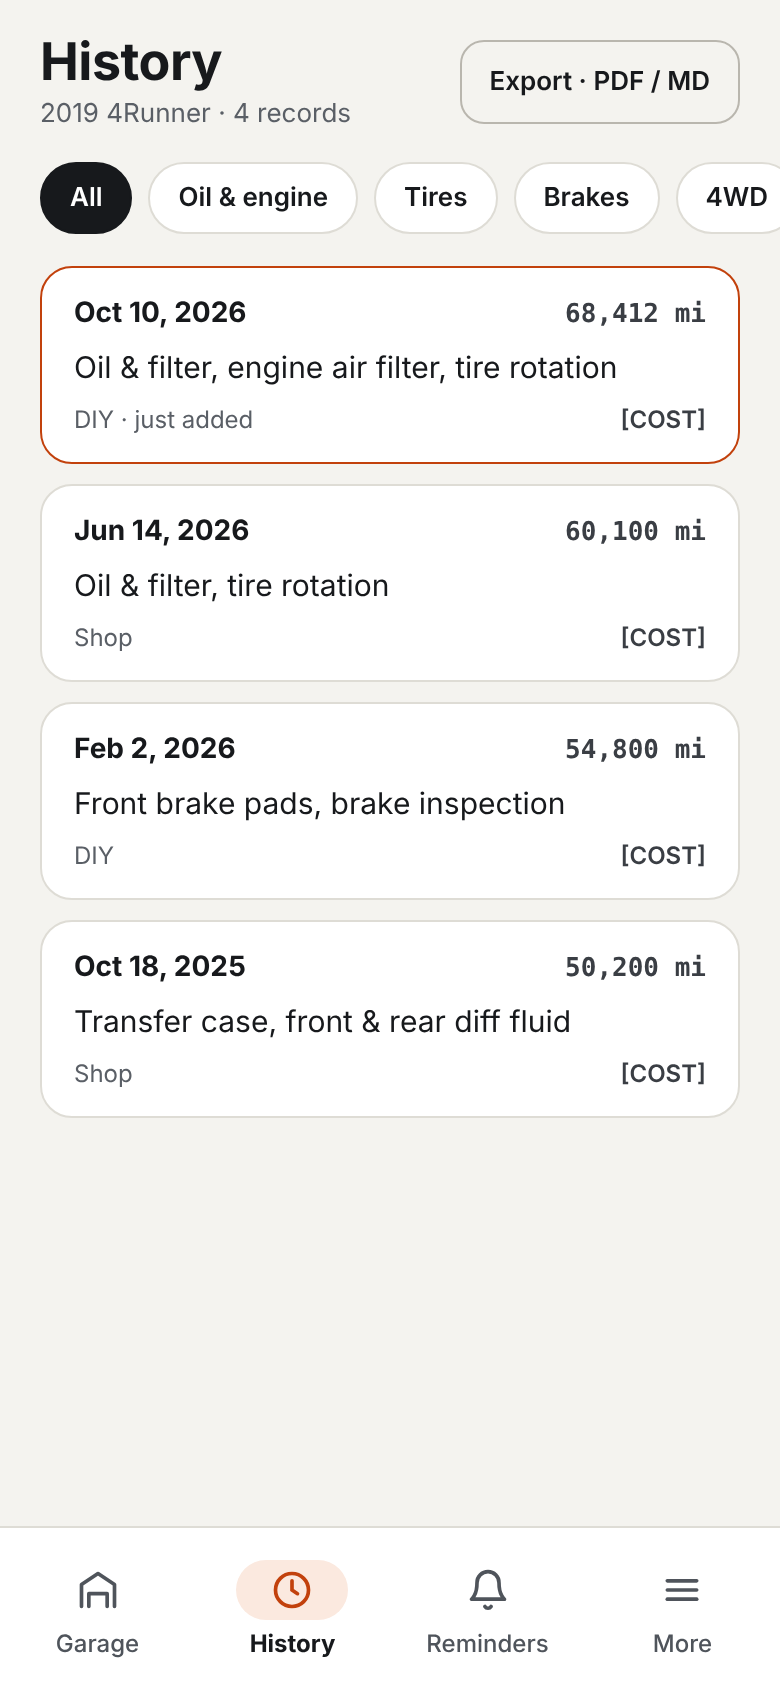
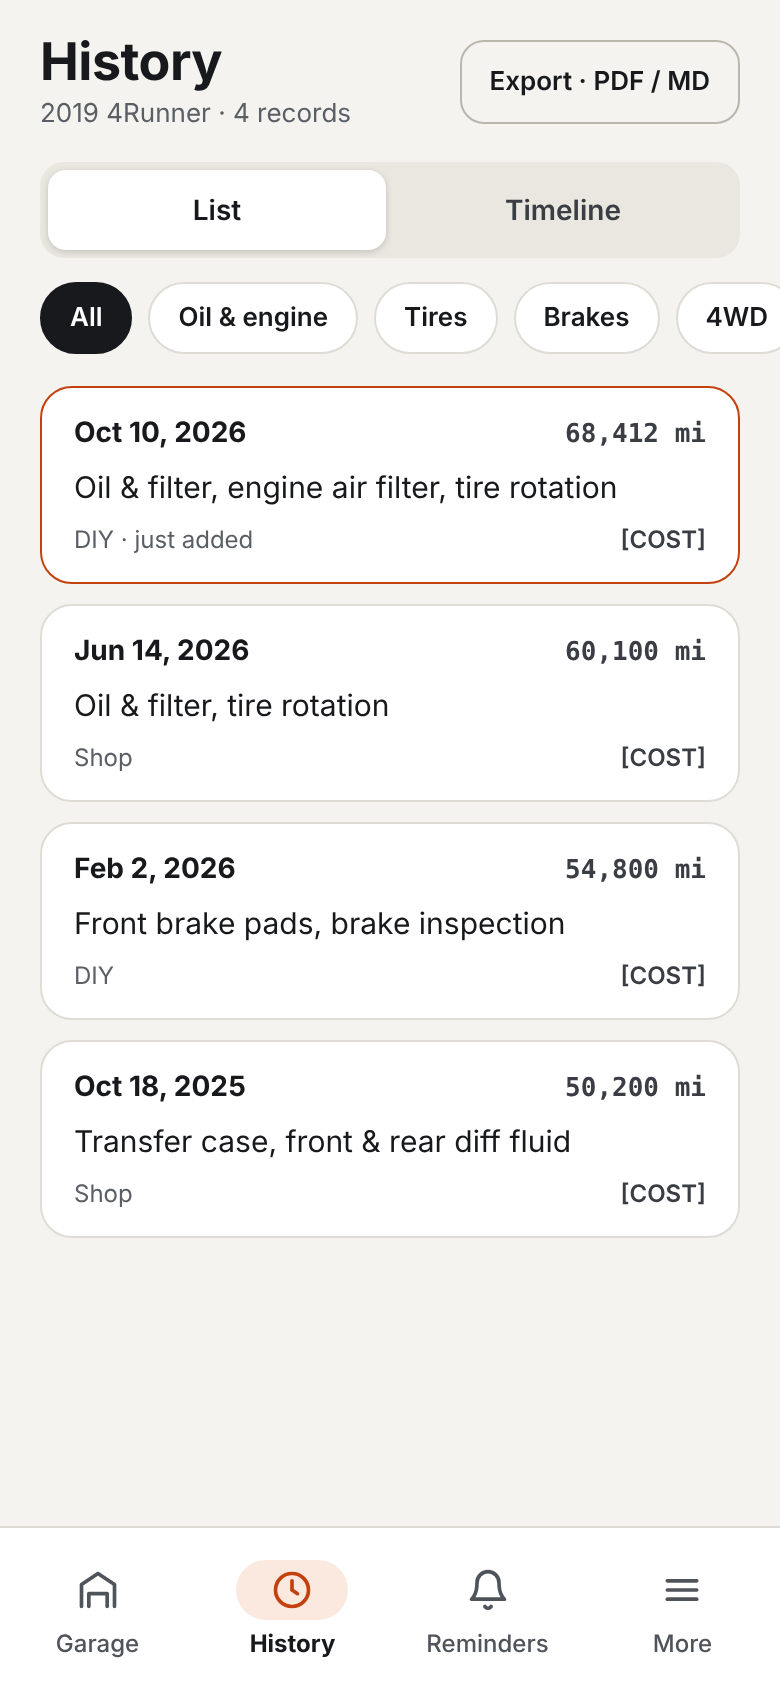
docs(design): add the History timeline view (#400)
A new board, 6e · History — timeline view, and a List / Timeline switch on
the History board that leads to it.

diff --git a/design/source/Timeline.dc.html b/design/source/Timeline.dc.html
@@ -1,0 +1,202 @@
+<!doctype html>
+<html lang="en">
+<head>
+<meta charset="utf-8">
+<title>Service timeline</title>
+<script src="./support.js"></script>
+</head>
+<body>
+<x-dc>
+<helmet>
+<link rel="stylesheet" href="https://fonts.googleapis.com/css2?family=IBM+Plex+Mono:wght@500;600&amp;family=IBM+Plex+Sans:wght@400;500;600;700&amp;display=swap">
+<style>
+body{margin:0}
+a{color:#C2410C}a:hover{color:#9A3412}
+</style>
+</helmet>
+<div style="width: 390px; min-height: 1560px; box-sizing: border-box; background: #F4F3EF; color: #17191C; font-family: 'IBM Plex Sans', system-ui, sans-serif; display: flex; flex-direction: column">
+  <div style="display: flex; align-items: center; justify-content: space-between; padding: 16px 20px 4px 20px">
+    <div style="display: flex; flex-direction: column; gap: 2px">
+      <div style="font-size: 26px; font-weight: 700; letter-spacing: -0.01em">History</div>
+      <div style="font-size: 13px; color: #5A5F66">{{subtitle}}</div>
+    </div>
+    <a href="ExportSheet.dc.html" style="height: 40px; padding: 0 14px; border-radius: 12px; border: 1.5px solid #B9B6AE; display: flex; align-items: center; font-size: 13px; font-weight: 600; color: #17191C; text-decoration: none">Export</a>
+  </div>
+
+  <div style="padding: 12px 20px 0 20px">
+    <div role="tablist" aria-label="History view" style="display: grid; grid-template-columns: repeat(2, minmax(0, 1fr)); gap: 4px; padding: 4px; border-radius: 12px; background: #E9E7E0">
+      <a href="History.dc.html" role="tab" aria-selected="false" style="height: 40px; border-radius: 9px; display: flex; align-items: center; justify-content: center; font-size: 14px; font-weight: 600; color: #3A3E44; text-decoration: none">List</a>
+      <a href="Timeline.dc.html" role="tab" aria-selected="true" style="height: 40px; border-radius: 9px; display: flex; align-items: center; justify-content: center; font-size: 14px; font-weight: 600; color: #17191C; text-decoration: none; background: #FFFFFF; box-shadow: 0 1px 3px rgba(23,25,28,0.18)">Timeline</a>
+    </div>
+  </div>
+
+  <div style="display: flex; gap: 8px; padding: 12px 20px 4px 20px">
+    <sc-for list="{{filters}}" as="f" hint-placeholder-count="3">
+      <button onClick="{{f.pick}}" aria-pressed="{{f.active}}" style="height: 36px; padding: 0 14px; border-radius: 999px; font-family: inherit; font-size: 13px; font-weight: 600; border: 1.5px solid {{f.border}}; background: {{f.bg}}; color: {{f.fg}}">{{f.label}}</button>
+    </sc-for>
+  </div>
+
+  <div style="position: relative; padding: 12px 20px 24px 20px">
+    <div aria-hidden="true" style="position: absolute; left: 39px; top: 24px; bottom: 24px; width: 2px; background: #DEDCD5"></div>
+
+    <sc-for list="{{upcoming}}" as="u" hint-placeholder-count="2">
+      <div style="position: relative; display: flex; gap: 14px; padding-bottom: 12px">
+        <div style="width: 40px; flex-shrink: 0; display: flex; justify-content: center; padding-top: 14px">
+          <div style="width: 16px; height: 16px; border-radius: 8px; box-sizing: border-box; border: 2px dashed #C2410C; background: #F4F3EF"></div>
+        </div>
+        <div style="flex: 1; min-width: 0; border: 1.5px dashed #C2410C; border-radius: 14px; padding: 10px 14px; display: flex; flex-direction: column; gap: 2px">
+          <span style="font-size: 12px; font-weight: 700; letter-spacing: 0.04em; color: #9A3412">COMING UP · {{u.vehicle}}</span>
+          <span style="font-size: 15px; font-weight: 600">{{u.name}}</span>
+          <span style="font-size: 13px; color: #3A3E44">{{u.when}}</span>
+        </div>
+      </div>
+    </sc-for>
+
+    <sc-for list="{{items}}" as="e" hint-placeholder-count="6">
+      <sc-if value="{{e.isYear}}" hint-placeholder-val="{{ false }}">
+        <div style="position: relative; display: flex; gap: 14px; padding: 8px 0 10px 0">
+          <div style="width: 40px; flex-shrink: 0; display: flex; justify-content: center">
+            <div style="padding: 2px 6px; border-radius: 6px; background: #17191C; color: #FFFFFF; font-family: 'IBM Plex Mono', ui-monospace, monospace; font-size: 12px; font-weight: 600">{{e.year}}</div>
+          </div>
+        </div>
+      </sc-if>
+
+      <sc-if value="{{e.isGap}}" hint-placeholder-val="{{ false }}">
+        <div style="position: relative; display: flex; gap: 14px; padding: 0 0 12px 0">
+          <div style="width: 40px; flex-shrink: 0"></div>
+          <div style="font-size: 12px; color: #5A5F66; font-style: italic">{{e.gap}}</div>
+        </div>
+      </sc-if>
+
+      <sc-if value="{{e.isEntry}}" hint-placeholder-val="{{ true }}">
+        <div style="position: relative; display: flex; gap: 14px; padding-bottom: 12px">
+          <div style="width: 40px; flex-shrink: 0; display: flex; justify-content: center; padding-top: 16px">
+            <div style="width: 16px; height: 16px; border-radius: 8px; box-sizing: border-box; border: 3px solid {{e.ring}}; background: #FFFFFF"></div>
+          </div>
+          <a href="RecordDetail.dc.html" style="flex: 1; min-width: 0; background: #FFFFFF; border: 1px solid #DEDCD5; border-radius: 16px; padding: 12px 14px; display: flex; flex-direction: column; gap: 8px; color: #17191C; text-decoration: none">
+            <div style="display: flex; justify-content: space-between; align-items: baseline; gap: 8px">
+              <span style="font-size: 14px; font-weight: 700">{{e.date}}</span>
+              <span style="font-family: 'IBM Plex Mono', ui-monospace, monospace; font-size: 13px; font-weight: 600; color: #3A3E44">{{e.miles}}</span>
+            </div>
+            <div style="display: flex; gap: 6px; flex-wrap: wrap">
+              <sc-for list="{{e.work}}" as="w" hint-placeholder-count="2">
+                <span style="display: inline-flex; align-items: center; gap: 6px; padding: 4px 8px; border-radius: 8px; background: #F4F3EF; font-size: 13px">
+                  <span aria-hidden="true" style="width: 8px; height: 8px; border-radius: 2px; background: {{w.color}}"></span>{{w.label}}
+                </span>
+              </sc-for>
+            </div>
+            <div style="display: flex; justify-content: space-between; font-size: 12px; color: #5A5F66">
+              <span style="font-weight: 600; color: {{e.vehicleColor}}">{{e.vehicle}}</span>
+              <span>{{e.who}}</span>
+            </div>
+          </a>
+        </div>
+      </sc-if>
+    </sc-for>
+
+    <div style="position: relative; display: flex; gap: 14px">
+      <div style="width: 40px; flex-shrink: 0; display: flex; justify-content: center">
+        <div style="width: 10px; height: 10px; border-radius: 5px; background: #B9B6AE"></div>
+      </div>
+      <div style="font-size: 12px; color: #5A5F66">{{startNote}}</div>
+    </div>
+  </div>
+
+  <div style="padding: 0 20px 20px 20px; display: flex; gap: 12px; flex-wrap: wrap; font-size: 12px; color: #3A3E44">
+    <span style="display: inline-flex; align-items: center; gap: 6px"><span aria-hidden="true" style="width: 8px; height: 8px; border-radius: 2px; background: #C2410C"></span>Oil &amp; engine</span>
+    <span style="display: inline-flex; align-items: center; gap: 6px"><span aria-hidden="true" style="width: 8px; height: 8px; border-radius: 2px; background: #3A3E44"></span>Tires</span>
+    <span style="display: inline-flex; align-items: center; gap: 6px"><span aria-hidden="true" style="width: 8px; height: 8px; border-radius: 2px; background: #B42318"></span>Brakes</span>
+    <span style="display: inline-flex; align-items: center; gap: 6px"><span aria-hidden="true" style="width: 8px; height: 8px; border-radius: 2px; background: #0F766E"></span>Fluids &amp; 4WD</span>
+    <span style="display: inline-flex; align-items: center; gap: 6px"><span aria-hidden="true" style="width: 8px; height: 8px; border-radius: 2px; background: #B9B6AE"></span>Cabin &amp; other</span>
+  </div>
+
+  <div style="flex: 1"></div>
+
+  <nav style="height: 80px; background: #FFFFFF; border-top: 1px solid #DEDCD5; display: grid; grid-template-columns: repeat(4, minmax(0, 1fr))">
+    <a href="GarageMulti.dc.html" style="display: flex; flex-direction: column; align-items: center; justify-content: center; gap: 4px; color: #4F545B; text-decoration: none; font-size: 12px; font-weight: 500">
+      <div style="width: 56px; height: 30px; display: flex; align-items: center; justify-content: center"><svg width="22" height="22" viewBox="0 0 24 24" fill="none" stroke="currentColor" stroke-width="2" stroke-linecap="round" stroke-linejoin="round" aria-hidden="true"><path d="M3 21V9l9-6 9 6v12"></path><path d="M7 21v-7h10v7"></path></svg></div>
+      Garage
+    </a>
+    <a href="Timeline.dc.html" style="display: flex; flex-direction: column; align-items: center; justify-content: center; gap: 4px; color: #17191C; text-decoration: none; font-size: 12px; font-weight: 700">
+      <div style="width: 56px; height: 30px; border-radius: 15px; background: #FBE9DF; display: flex; align-items: center; justify-content: center; color: #C2410C"><svg width="22" height="22" viewBox="0 0 24 24" fill="none" stroke="currentColor" stroke-width="2" stroke-linecap="round" aria-hidden="true"><circle cx="12" cy="12" r="9"></circle><path d="M12 7v5l3 2"></path></svg></div>
+      History
+    </a>
+    <a href="Upcoming.dc.html" style="display: flex; flex-direction: column; align-items: center; justify-content: center; gap: 4px; color: #4F545B; text-decoration: none; font-size: 12px; font-weight: 500">
+      <div style="width: 56px; height: 30px; display: flex; align-items: center; justify-content: center"><svg width="22" height="22" viewBox="0 0 24 24" fill="none" stroke="currentColor" stroke-width="2" stroke-linecap="round" stroke-linejoin="round" aria-hidden="true"><path d="M18 8a6 6 0 0 0-12 0c0 7-3 9-3 9h18s-3-2-3-9"></path><path d="M13.7 21a2 2 0 0 1-3.4 0"></path></svg></div>
+      Reminders
+    </a>
+    <a href="Settings.dc.html" style="display: flex; flex-direction: column; align-items: center; justify-content: center; gap: 4px; color: #4F545B; text-decoration: none; font-size: 12px; font-weight: 500">
+      <div style="width: 56px; height: 30px; display: flex; align-items: center; justify-content: center"><svg width="22" height="22" viewBox="0 0 24 24" fill="none" stroke="currentColor" stroke-width="2" stroke-linecap="round" aria-hidden="true"><path d="M4 7h16"></path><path d="M4 12h16"></path><path d="M4 17h16"></path></svg></div>
+      Settings
+    </a>
+  </nav>
+</div>
+</x-dc>
+<script type="text/x-dc" data-dc-script data-props='{"$preview":{"width":390,"height":1560}}'>
+class Component extends DCLogic {
+constructor(props) {
+super(props);
+this.state = { v: 'all' };
+}
+renderVals() {
+var self = this, v = this.state.v;
+var CAT = { oil: '#C2410C', tires: '#3A3E44', brakes: '#B42318', fluids: '#0F766E', other: '#B9B6AE' };
+var VEH = {
+'4r': { name: '2019 4Runner', ring: '#C2410C', text: '#9A3412' },
+gti: { name: '2011 GTI', ring: '#17191C', text: '#3A3E44' }
+};
+// Sample data — not real records.
+var D = [
+{ v: '4r', d: '2026-10-10', mi: 68412, who: 'DIY', work: [['Oil & filter', 'oil'], ['Engine air filter', 'oil'], ['Tire rotation', 'tires']] },
+{ v: 'gti', d: '2026-08-22', mi: 110800, who: 'DIY', work: [['Tire rotation', 'tires'], ['Wiper blades', 'other']] },
+{ v: '4r', d: '2026-06-14', mi: 60100, who: 'Shop', work: [['Oil & filter', 'oil'], ['Tire rotation', 'tires']] },
+{ v: 'gti', d: '2026-03-09', mi: 105900, who: 'Shop', work: [['Rear brake pads', 'brakes'], ['Cabin air filter', 'other']] },
+{ v: '4r', d: '2026-02-02', mi: 54800, who: 'DIY', work: [['Front brake pads', 'brakes'], ['Brake inspection', 'brakes']] },
+{ v: 'gti', d: '2025-11-15', mi: 102940, who: 'DIY', work: [['Oil & filter (VW 502 00)', 'oil'], ['Spark plugs', 'oil']] },
+{ v: '4r', d: '2025-10-18', mi: 50200, who: 'Shop', work: [['Transfer case fluid', 'fluids'], ['Front & rear diff fluid', 'fluids']] }
+];
+var MON = ['Jan', 'Feb', 'Mar', 'Apr', 'May', 'Jun', 'Jul', 'Aug', 'Sep', 'Oct', 'Nov', 'Dec'];
+var parse = function (s) { var p = s.split('-'); return { y: +p[0], m: +p[1], d: +p[2] }; };
+var fmtDate = function (s) { var p = parse(s); return MON[p.m - 1] + ' ' + p.d + ', ' + p.y; };
+var months = function (a, b) { var x = parse(a), y = parse(b); return (x.y - y.y) * 12 + (x.m - y.m) - (x.d < y.d ? 1 : 0); };
+var rows = D.filter(function (d) { return v === 'all' || d.v === v; });
+var items = [];
+var lastYear = null;
+rows.forEach(function (r, i) {
+var yr = r.d.slice(0, 4);
+if (yr !== lastYear) { items.push({ isYear: true, isGap: false, isEntry: false, year: yr }); lastYear = yr; }
+var veh = VEH[r.v];
+items.push({
+isYear: false, isGap: false, isEntry: true,
+date: fmtDate(r.d), miles: r.mi.toLocaleString('en-US') + ' mi', who: r.who,
+vehicle: veh.name, vehicleColor: veh.text, ring: veh.ring,
+work: r.work.map(function (w) { return { label: w[0], color: CAT[w[1]] }; })
+});
+var next = rows[i + 1];
+if (next) {
+var m = months(r.d, next.d);
+var t = m <= 0 ? 'Under a month' : (m === 1 ? '1 month' : m + ' months');
+var txt = next.v === r.v ? t + ' · ' + (r.mi - next.mi).toLocaleString('en-US') + ' mi since the previous service' : t + ' apart';
+items.push({ isYear: false, isGap: true, isEntry: false, gap: txt });
+}
+});
+var UP = [
+{ v: '4r', vehicle: '4Runner', name: 'Oil & filter', when: 'At 70,100 mi · est. early Nov 2026' },
+{ v: 'gti', vehicle: 'GTI', name: 'Oil & filter (VW 502 00)', when: 'In 640 mi' }
+];
+var F = [['all', 'Both'], ['4r', '4Runner'], ['gti', 'GTI']];
+return {
+items: items,
+upcoming: UP.filter(function (u) { return v === 'all' || u.v === v; }),
+subtitle: (v === 'all' ? '2 vehicles' : VEH[v].name) + ' · ' + rows.length + ' services',
+startNote: v === 'all' ? 'Tracking since Oct 2025' : 'Added to Glovebox · ' + fmtDate(rows[rows.length - 1].d),
+filters: F.map(function (f) {
+var a = f[0] === v;
+return { label: f[1], active: a, bg: a ? '#17191C' : '#FFFFFF', fg: a ? '#FFFFFF' : '#17191C', border: a ? '#17191C' : '#DEDCD5', pick: function () { self.setState({ v: f[0] }); } };
+})
+};
+}
+}
+</script>
+</body>
+</html>

diff --git a/design/source/History.dc.html b/design/source/History.dc.html
@@ -23,6 +23,13 @@ a{color:#C2410C}a:hover{color:#9A3412}
     <a href="ExportSheet.dc.html" style="height: 40px; padding: 0 14px; border-radius: 12px; border: 1.5px solid #B9B6AE; display: flex; align-items: center; font-size: 13px; font-weight: 600; color: #17191C; text-decoration: none">Export · PDF / MD</a>
   </div>
 
+  <div style="padding: 12px 20px 0 20px">
+    <div role="tablist" aria-label="History view" style="display: grid; grid-template-columns: repeat(2, minmax(0, 1fr)); gap: 4px; padding: 4px; border-radius: 12px; background: #E9E7E0">
+      <a href="History.dc.html" role="tab" aria-selected="true" style="height: 40px; border-radius: 9px; display: flex; align-items: center; justify-content: center; font-size: 14px; font-weight: 600; color: #17191C; text-decoration: none; background: #FFFFFF; box-shadow: 0 1px 3px rgba(23,25,28,0.18)">List</a>
+      <a href="Timeline.dc.html" role="tab" aria-selected="false" style="height: 40px; border-radius: 9px; display: flex; align-items: center; justify-content: center; font-size: 14px; font-weight: 600; color: #3A3E44; text-decoration: none">Timeline</a>
+    </div>
+  </div>
+
   <div style="display: flex; gap: 8px; padding: 12px 20px; overflow-x: auto">
     <sc-for list="{{filters}}" as="f" hint-placeholder-count="5">
       <button onClick="{{f.pick}}" aria-pressed="{{f.active}}" style="height: 36px; padding: 0 14px; border-radius: 999px; flex-shrink: 0; font-family: inherit; font-size: 13px; font-weight: 600; border: 1.5px solid {{f.border}}; background: {{f.bg}}; color: {{f.fg}}">{{f.label}}</button>

diff --git a/design/README.md b/design/README.md
@@ -56,3 +56,4 @@ Map raw hex colors to the theme tokens in `app/.../ui/theme/Theme.kt` rather tha
 | 9d · Delete all data | `screens/DeleteAll.png` | `source/DeleteAll.dc.html` |
 | 6c · Edit service + undo | `screens/EditRecord.png` | `source/EditRecord.dc.html` |
 | 6d · Delete record + undo | `screens/DeleteRecord.png` | `source/DeleteRecord.dc.html` |
+| 6e · History — timeline view | `screens/Timeline.png` | `source/Timeline.dc.html` |
